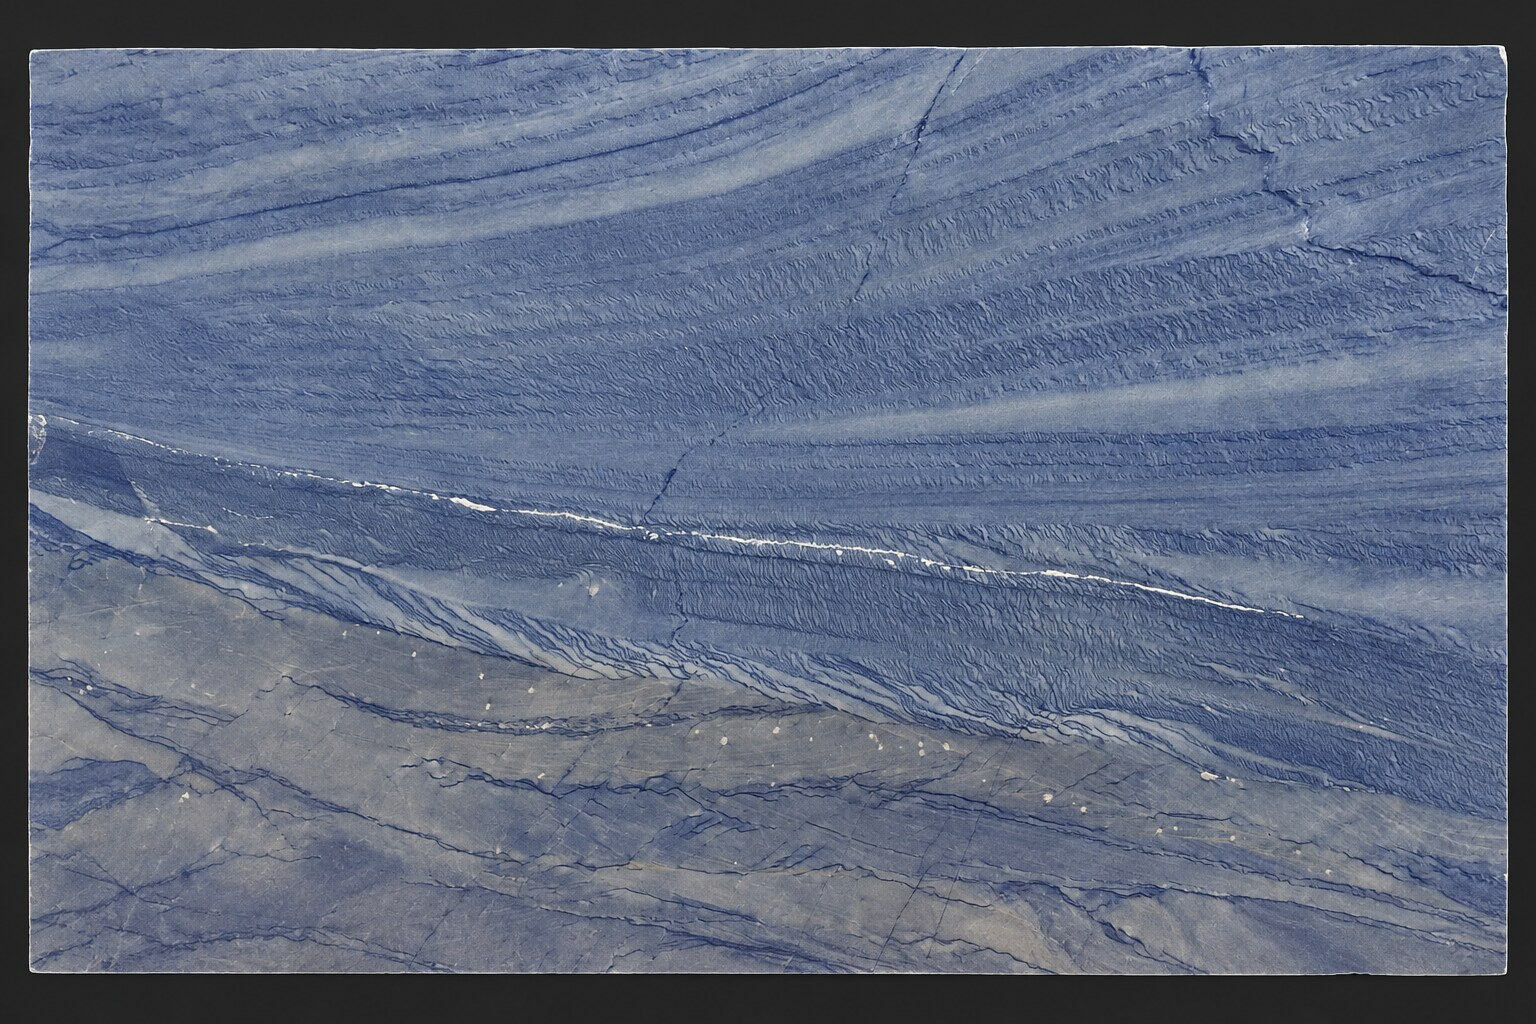
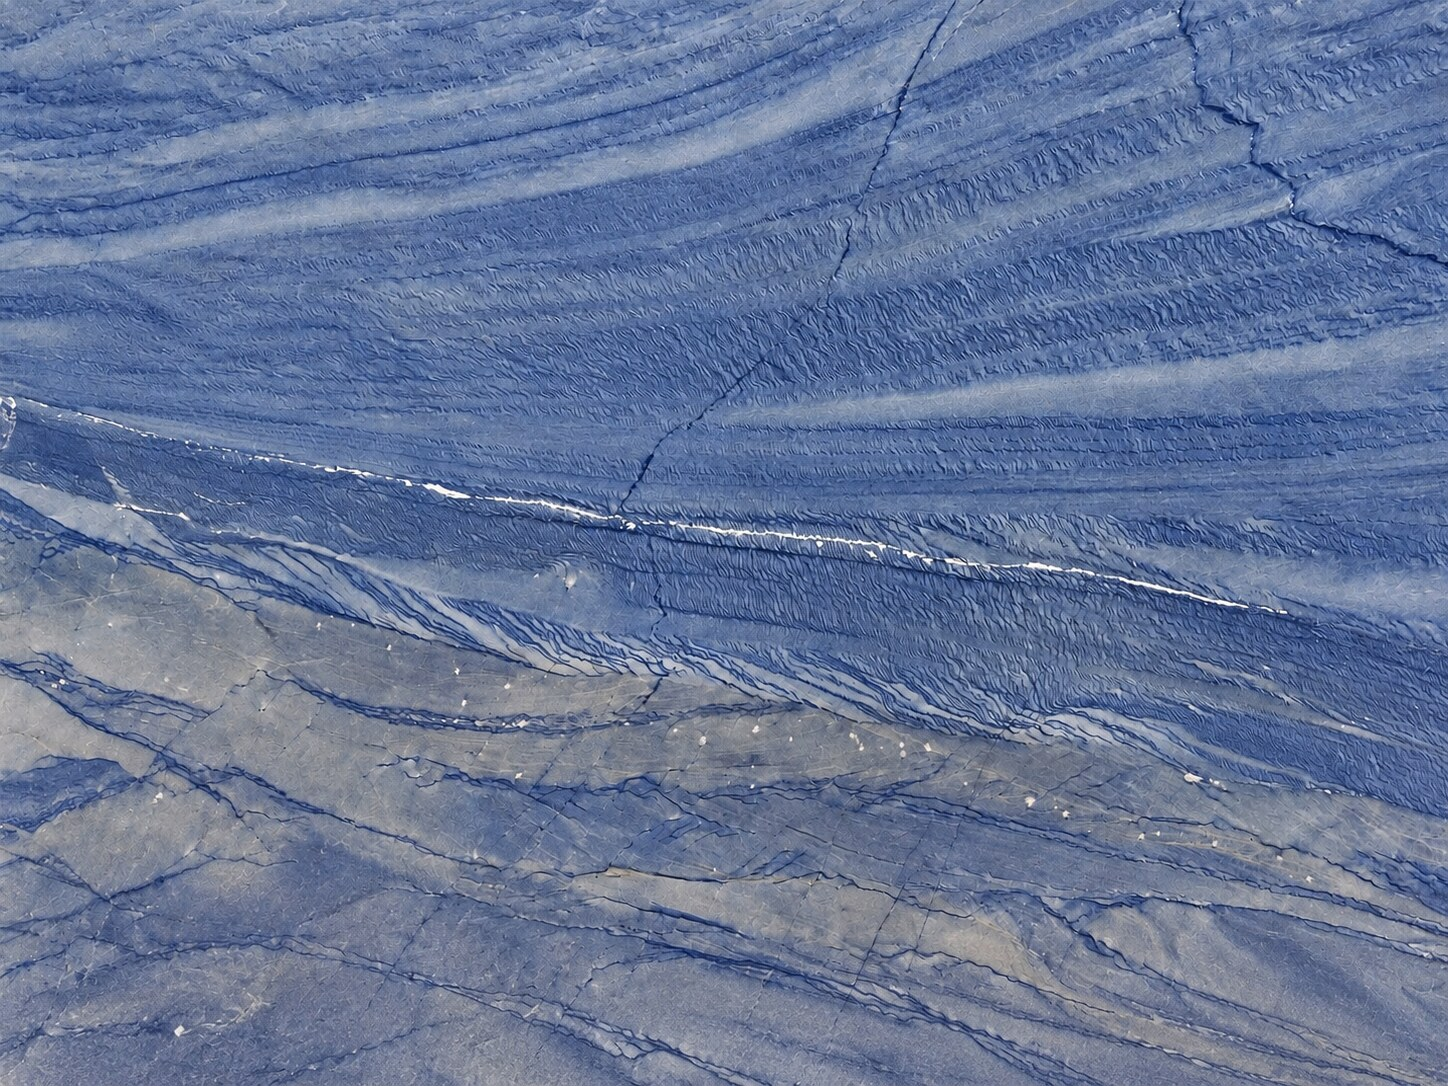
Show full-frame uniform slab images without dark margins

diff --git a/components/cinematic/CinematicHome.tsx b/components/cinematic/CinematicHome.tsx
@@ -7,6 +7,7 @@ import { useCinematicScroll } from './useCinematicScroll';
 import './CinematicHome.css';
 
 const slabNames = ['stone-01-x235', 'stone-02-x240', 'stone-03-x242', 'stone-04-x241', 'stone-05-x247', 'stone-06-x248', 'stone-07-x249', 'stone-08-x256', 'stone-09-x254', 'stone-10-x255', 'stone-11-x261', 'stone-12-x262', 'stone-13-x263'];
+const slabImage = (name: string) => `/stone-slabs/edited/${name}.jpeg?v=full-4x3`;
 const slabCopy = {
   he: { title: 'האבן במבט מלא.', intro: 'שלושה עשר לוחות, כל אחד עם תנועה וגוון משלו.', note: 'המחשות חזיתיות; אזורים שהוסתרו בצילום שוחזרו דיגיטלית.', slab: 'לוח', edited: 'הגדלת ההמחשה', jump: 'גלו את הלוחות', gesture: 'החליקו או גררו בין התמונות · לחצו להגדלה' },
   ar: { title: 'الحجر بكامل تفاصيله.', intro: 'ثلاثة عشر لوحًا، لكل منها عروقه ولونه الخاص.', note: 'تصورات أمامية؛ أُعيد بناء الأجزاء المحجوبة رقميًا.', slab: 'لوح', edited: 'تكبير الصورة', jump: 'اكتشفوا الألواح', gesture: 'اسحبوا للتنقل · اضغطوا للتكبير' },
@@ -68,13 +69,13 @@ export default function CinematicHome() {
             const offset=(i-activeSlab)*(dir==='rtl'?-1:1);
             const distance=Math.abs(offset);
             return <figure key={name} className="ch-slab" aria-hidden={distance!==0} style={{transform:`translate(calc(-50% + ${offset*15}% + ${dragX}px), -50%) scale(${distance===0?1:.94})`,zIndex:10-distance,opacity:distance>1?0:1,pointerEvents:distance>1?'none':'auto'}}>
-              <button type="button" tabIndex={distance===0?0:-1} onClick={()=>{if(Date.now()<suppressClickUntil.current)return;if(i===activeSlab)slabDialog.current?.showModal();else showSlab(i);}} aria-label={`${s.edited}: ${s.slab} ${i+1}`}><img src={`/stone-slabs/edited/${name}.jpeg`} alt={`${s.slab} ${i+1}`} loading={distance<=1?'eager':'lazy'} decoding="async" width="1536" height="1024" /></button>
+              <button type="button" tabIndex={distance===0?0:-1} onClick={()=>{if(Date.now()<suppressClickUntil.current)return;if(i===activeSlab)slabDialog.current?.showModal();else showSlab(i);}} aria-label={`${s.edited}: ${s.slab} ${i+1}`}><img src={slabImage(name)} alt={`${s.slab} ${i+1}`} loading={distance<=1?'eager':'lazy'} decoding="async" width="1448" height="1086" /></button>
             </figure>;
           })}
         </div>
         <div className="ch-slabs-meta"><span>{s.gesture}</span><span dir="ltr" aria-live="polite">{String(activeSlab+1).padStart(2,'0')} / {slabNames.length}</span></div>
       </section>
-      <dialog ref={slabDialog} className="ch-slab-dialog" onClick={event=>{if(event.target===event.currentTarget)slabDialog.current?.close();}} aria-label={`${s.slab} ${activeSlab+1}`}><button type="button" className="ch-slab-close" onClick={()=>slabDialog.current?.close()} aria-label={c.close}>×</button><img src={`/stone-slabs/edited/${slabNames[activeSlab]}.jpeg`} alt={`${s.slab} ${activeSlab+1}`} /></dialog>
+      <dialog ref={slabDialog} className="ch-slab-dialog" onClick={event=>{if(event.target===event.currentTarget)slabDialog.current?.close();}} aria-label={`${s.slab} ${activeSlab+1}`}><button type="button" className="ch-slab-close" onClick={()=>slabDialog.current?.close()} aria-label={c.close}>×</button><img src={slabImage(slabNames[activeSlab])} alt={`${s.slab} ${activeSlab+1}`} /></dialog>
       <div id="gallery" className="ch-section-label"><span>{c.selected}</span><span dir="ltr">SELECTED SPACES / 01—03</span></div>
       {c.projects.map((p,i)=>(
         <section key={i} className={`ch-project ch-tone-${i}`} aria-labelledby={`ch-title-${i}`}>

diff --git a/components/cinematic/CinematicHome.css b/components/cinematic/CinematicHome.css
@@ -44,12 +44,12 @@ html[lang=ar] .cinematic-home h1,html[lang=ar] .cinematic-home h2,html[lang=ar] 
 .ch-slabs-stage[data-dragging=true] .ch-slab{transition:none}
 .cinematic-home[data-motion=off] .ch-slab{transition:none}
 .ch-slab>button{position:absolute;inset:0;display:block;width:100%;height:100%;padding:0;border:0;overflow:hidden;background:#202623}
-.ch-slab img{display:block;width:100%;height:100%;object-fit:cover;transform:scale(1.2);pointer-events:none}
+.ch-slab img{display:block;width:100%;height:100%;object-fit:cover;pointer-events:none}
 .ch-slabs-meta{display:flex;justify-content:space-between;gap:20px;align-items:center;margin-top:12px;color:#d5d5ca;font-size:12px}
 .ch-slabs-meta span:last-child{color:#e3c799;white-space:nowrap}
 .ch-slab-dialog{position:fixed;inset:0;margin:auto;padding:0;width:min(90vw,1000px);height:min(67.5vw,750px,90svh);max-width:96vw;max-height:94svh;overflow:hidden;border:1px solid #bca57688;background:#17201b;color:#fff;box-shadow:0 25px 90px #000a}
 .ch-slab-dialog::backdrop{background:#050b09e8;backdrop-filter:blur(8px)}
-.ch-slab-dialog img{display:block;width:100%;height:100%;object-fit:cover;transform:scale(1.2)}
+.ch-slab-dialog img{display:block;width:100%;height:100%;object-fit:cover}
 .ch-slab-close{position:absolute;top:7px;right:10px;z-index:2;width:40px;height:40px;background:#17201be8;color:#fff;border:1px solid #c3a16f;border-radius:50%;font-size:28px;line-height:1}
 .ch-section-label span:last-child{font-size:11px;letter-spacing:.12em}
 .ch-project{height:175svh;--detail:0;--photo-scale:1;--photo-shift:0%;--progress:0%;background:#e7e7df;color:#242b24}

diff --git a/catalog/README.md b/catalog/README.md
@@ -11,4 +11,4 @@ python catalog/build.py
 
 The page backgrounds rotate through six dark shades of the site's stone palette. Photographs fill their frames and may be cropped at the edges; landscape photographs are grouped into wide frames. Each photograph has three circular material details sampled from distinct areas of that same photograph. The cover links to WhatsApp (using the number and message from the original catalog) and to the current Vercel site. The website already links to the generated PDF path.
 
-The 13 slab images in `images/` are edited frontal visualizations, with obstructing metal stands removed. Their untouched source photographs are retained in the repository's `original-stone/` directory, but are not served by the website. Because hidden stone was reconstructed digitally, these images illustrate the slabs' appearance rather than document exact vein placement. The website presents only the edited views as equal-size 4:3 swipeable cards that fill their frames without dark margins, with a larger view on click.
+The 13 slab images in `images/` are edited frontal visualizations, with obstructing metal stands removed. Their untouched source photographs are retained in the repository's `original-stone/` directory, but are not served by the website. Because hidden stone was reconstructed digitally, these images illustrate the slabs' appearance rather than document exact vein placement. The website uses separate edge-to-edge 4:3 visualizations in `public/stone-slabs/edited/`, presented as equal-size swipeable cards with a larger view on click.
